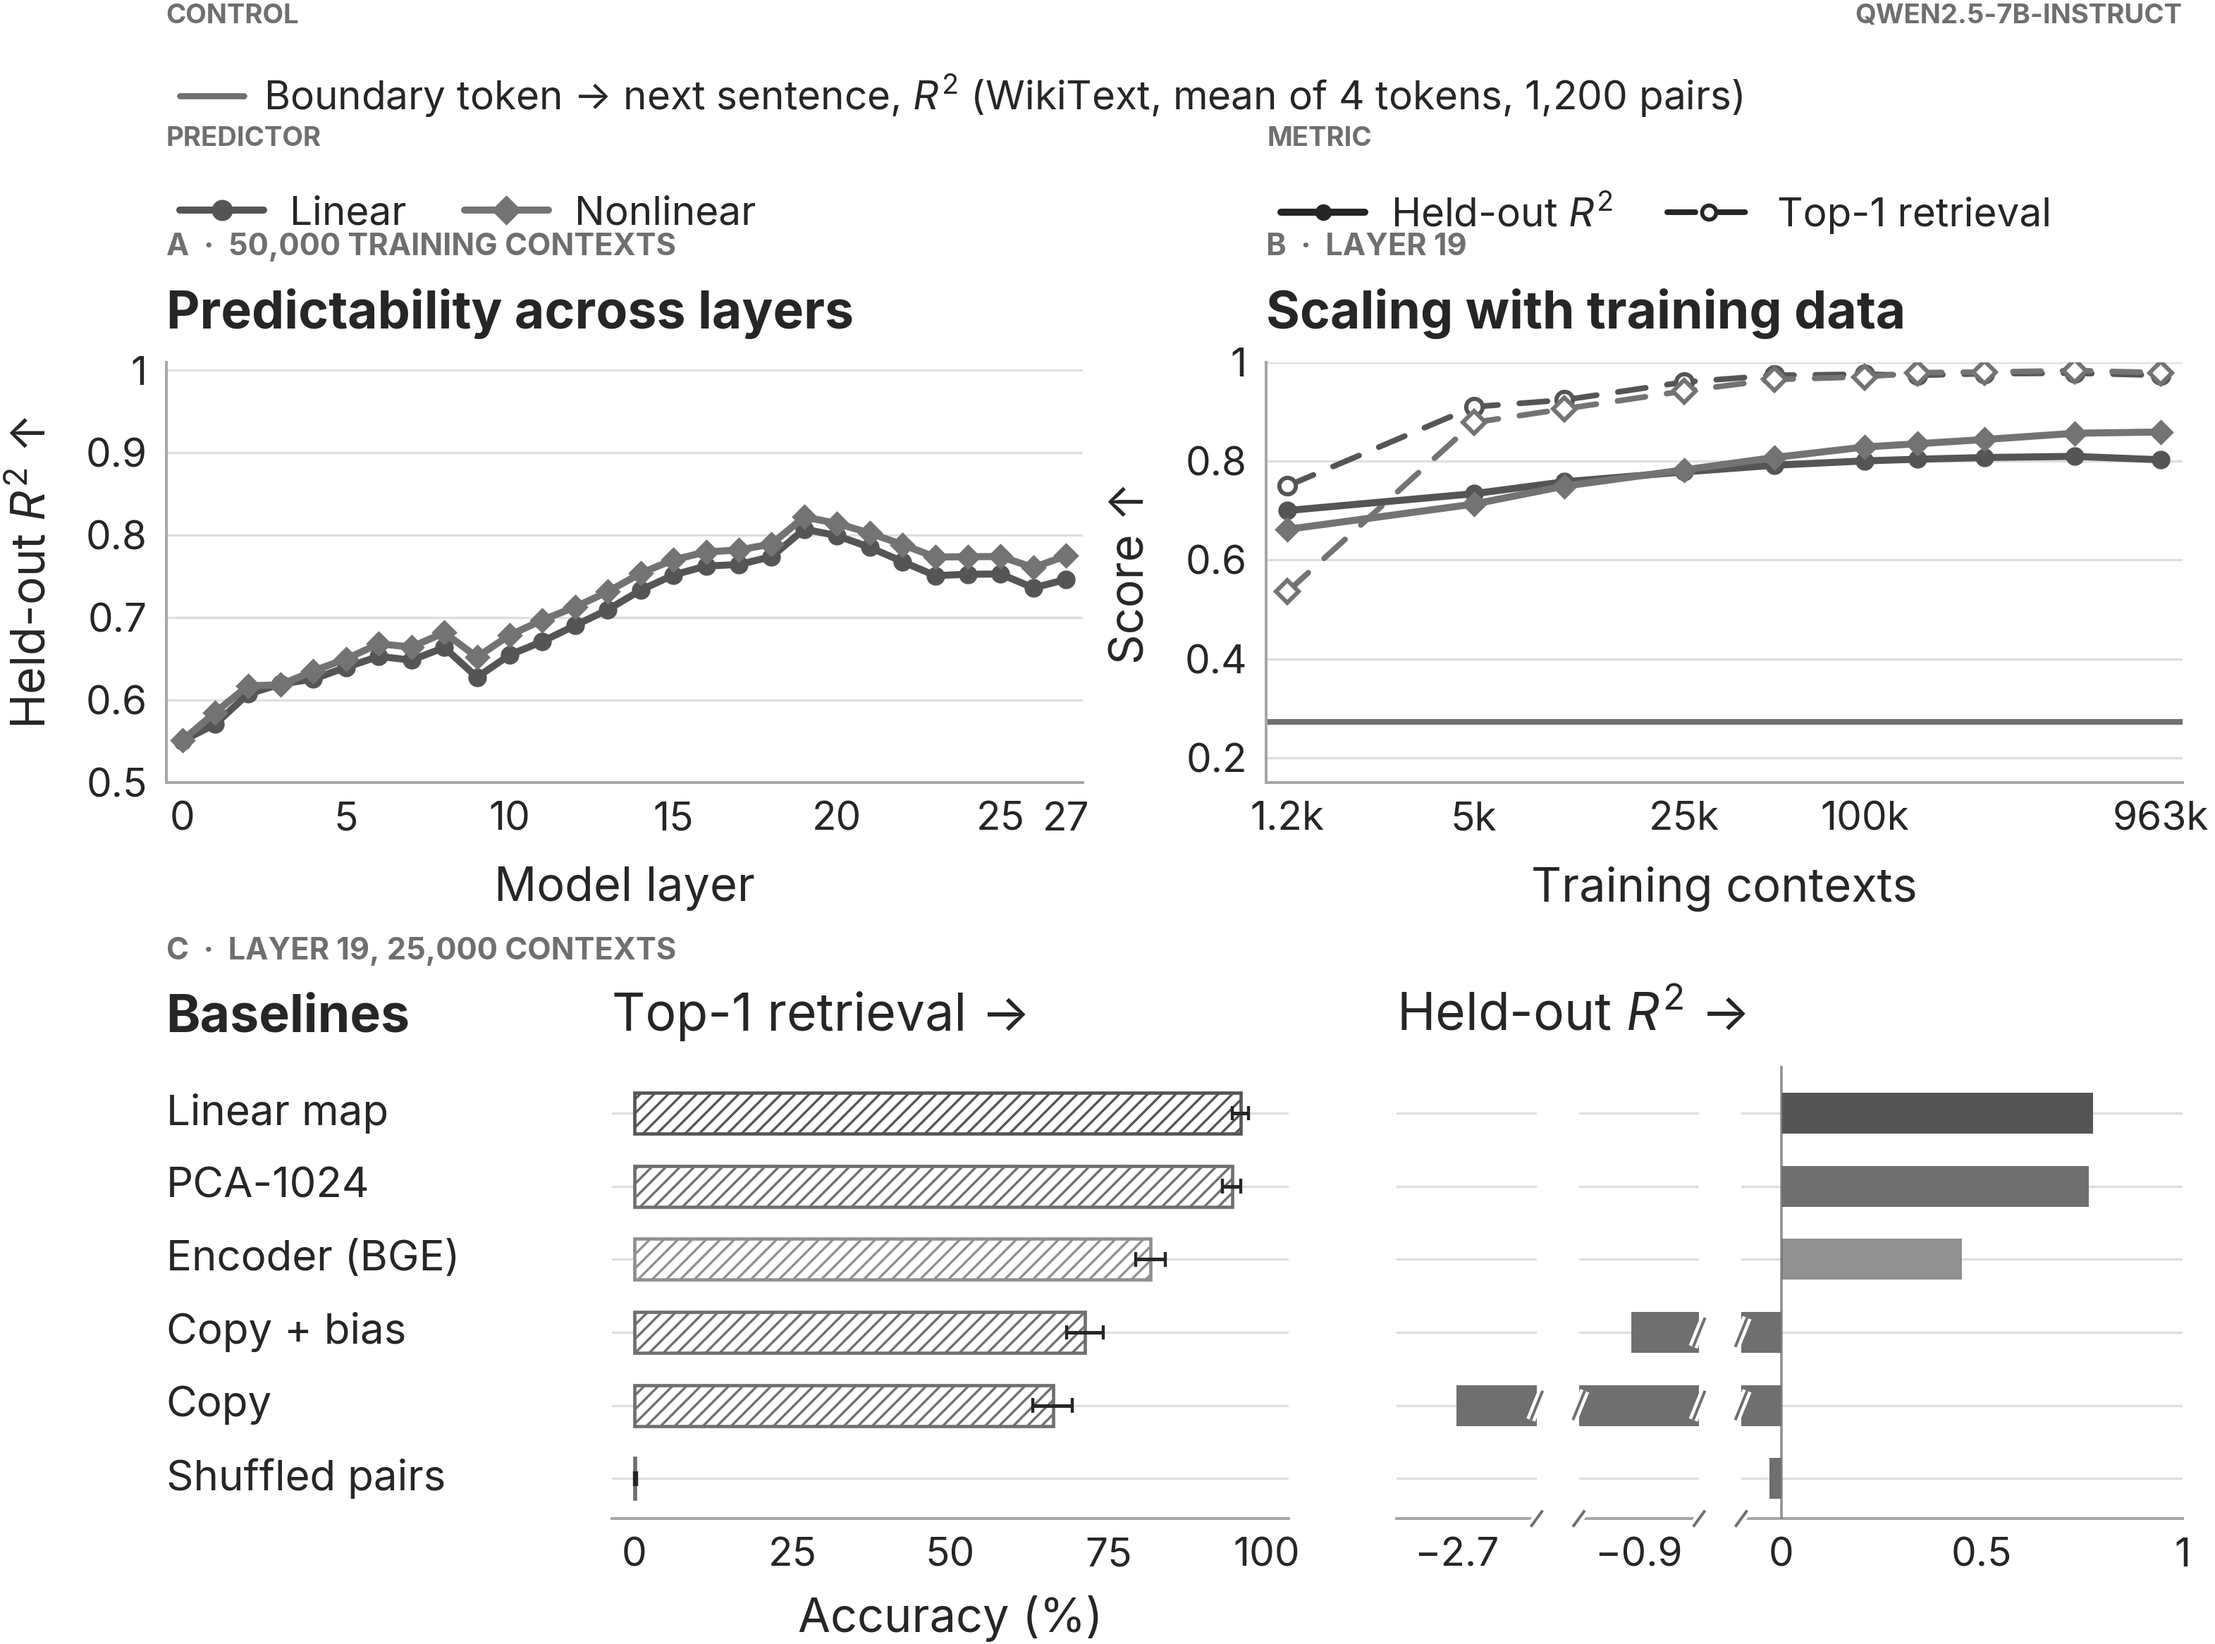
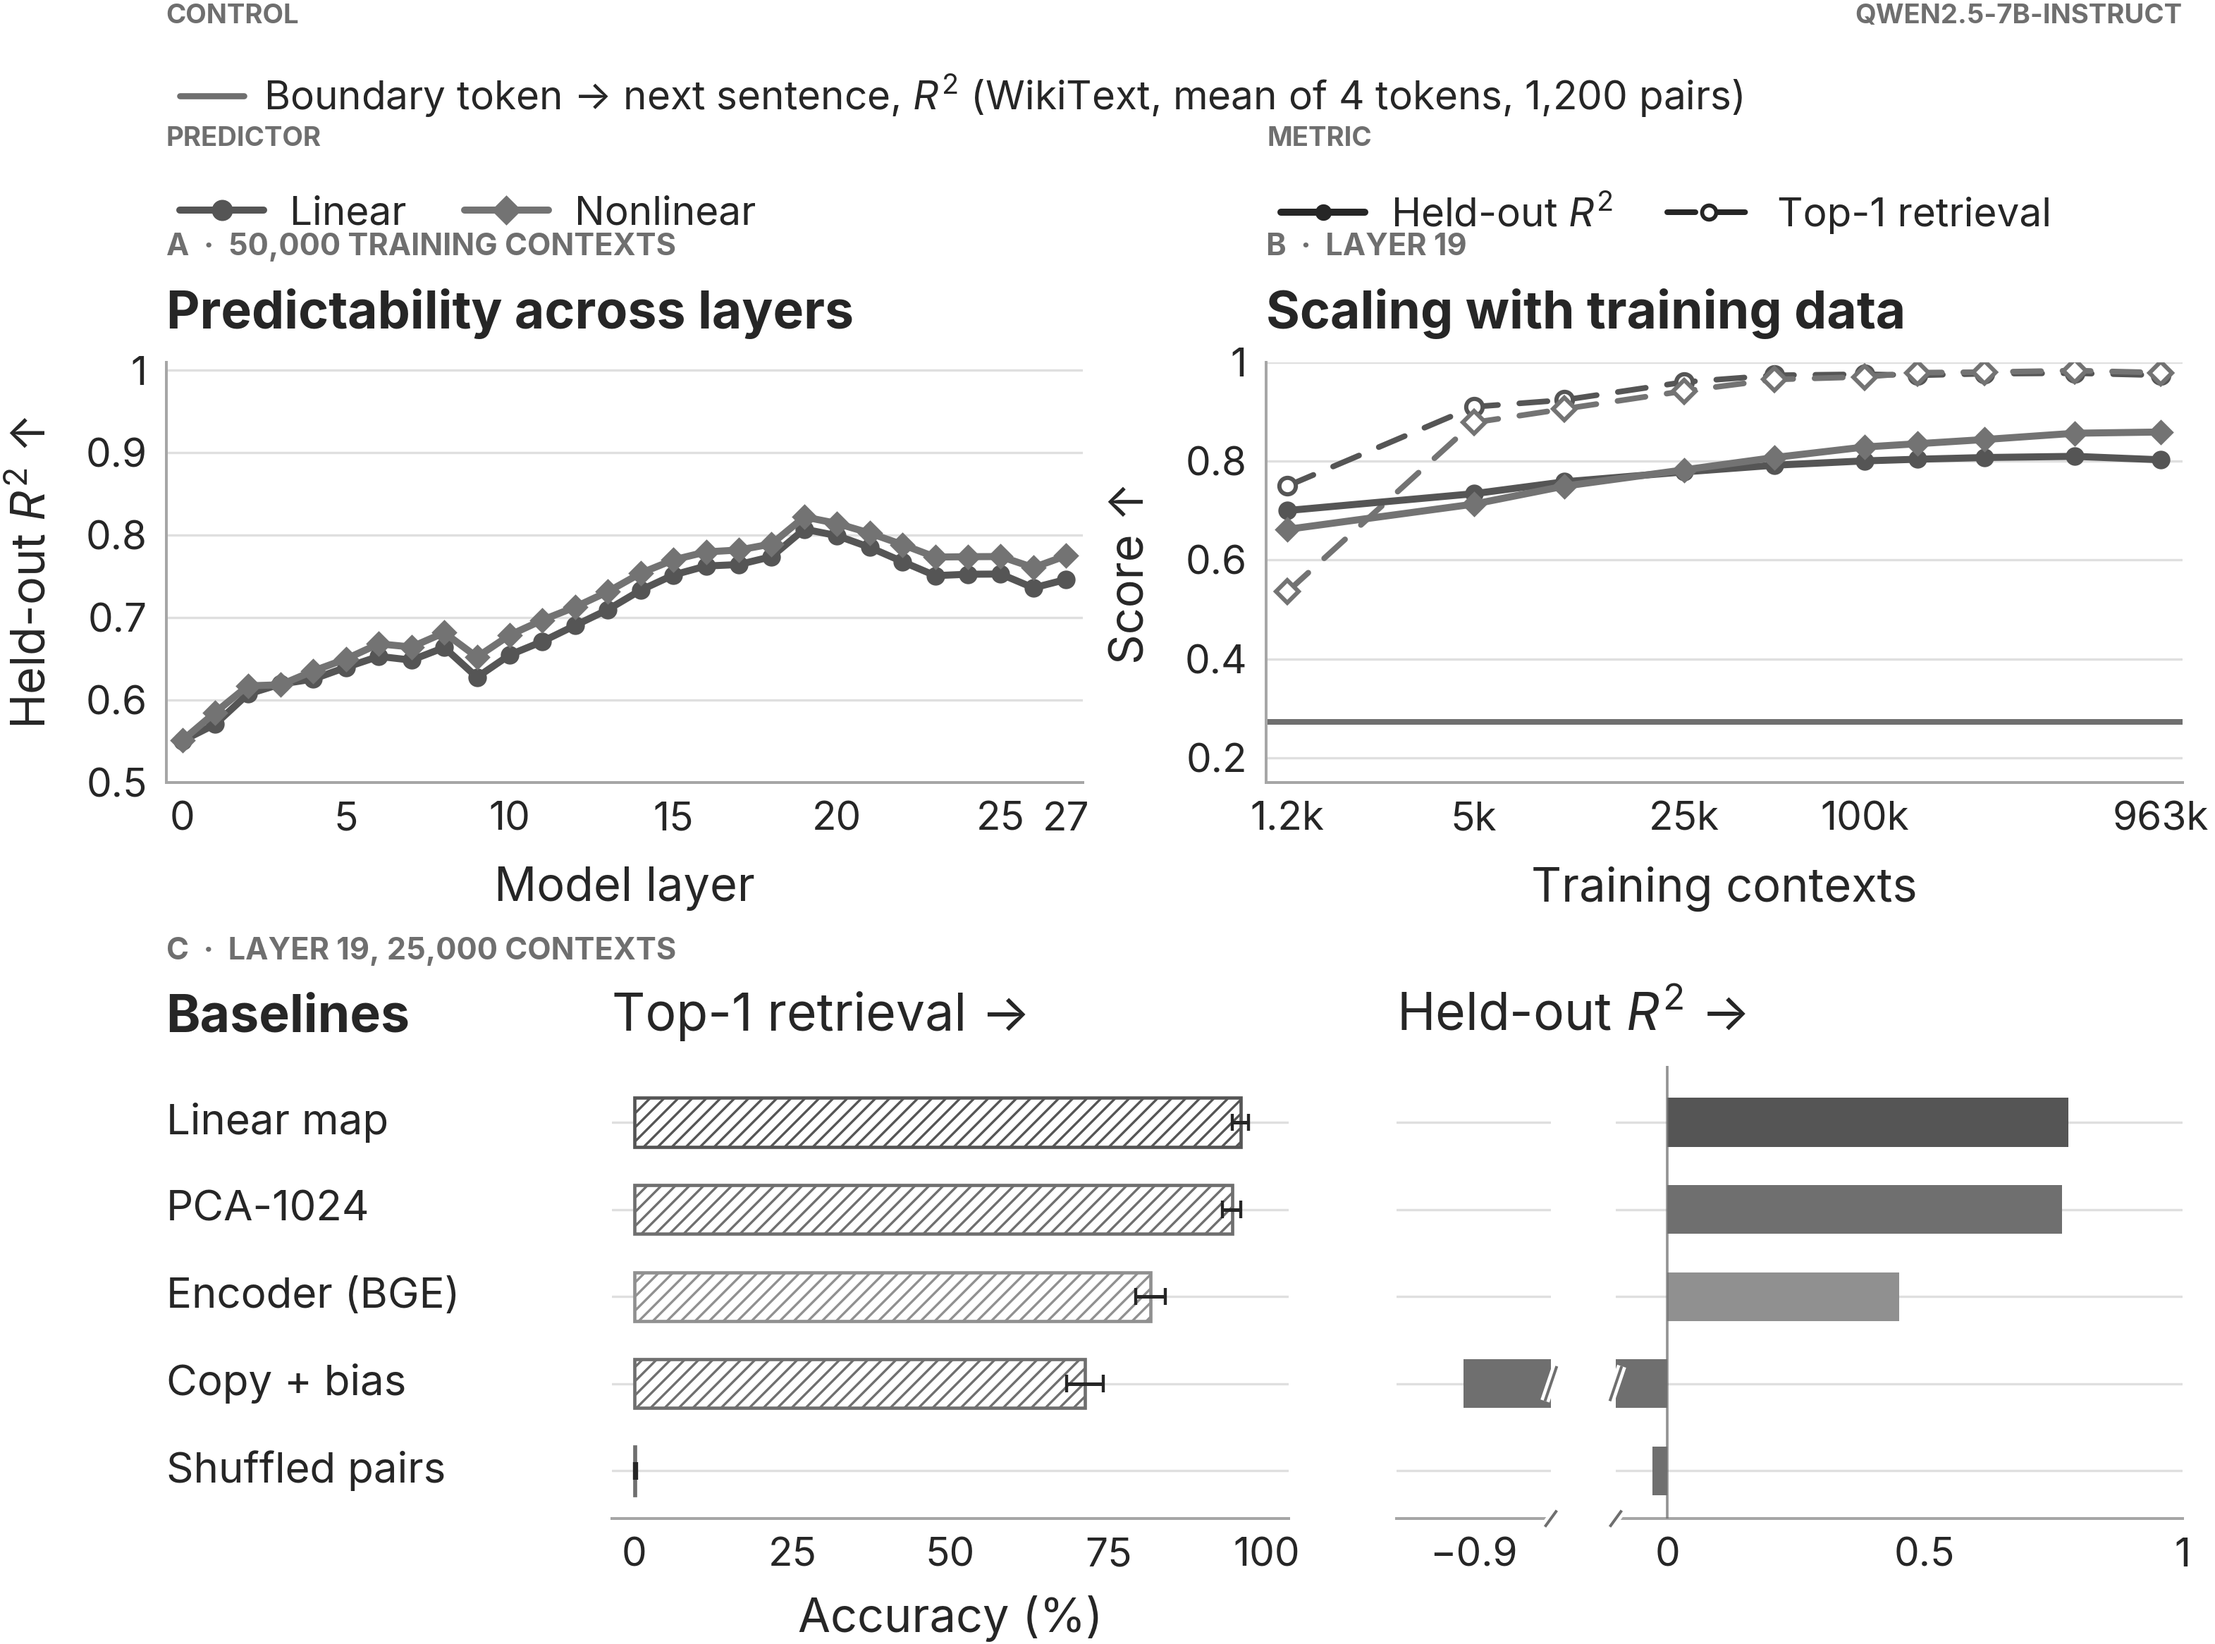
Remove Copy while retaining Copy plus bias in baselines

diff --git a/scripts/make_paper_figure2.py b/scripts/make_paper_figure2.py
@@ -145,13 +145,12 @@ BASELINE_ARMS: dict[str, dict] = {
     "enc_bge_cls": {"label": "Encoder (BGE)", "color": _ENCODER_COLOR},
     "pca1024": {"label": "PCA-1024", "color": ROLES["control"].color},
     "identity_bias": {"label": "Copy + bias", "color": ROLES["control"].color},
-    "identity_copy": {"label": "Copy", "color": ROLES["control"].color},
     "shuffled": {"label": "Shuffled pairs", "color": ROLES["control"].color},
 }
 
 # Retain every bar endpoint while omitting empty stretches of the negative axis.
 # Segment widths below are proportional to these spans: one common data scale.
-BASELINE_R2_SEGMENTS = ((-2.85, -2.5), (-1.05, -0.75), (-0.1, 1.0))
+BASELINE_R2_SEGMENTS = ((-1.05, -0.75), (-0.1, 1.0))
 
 
 def _load_baselines_data(path: Path, extension: dict) -> dict:
@@ -229,7 +228,7 @@ def _baseline_axis_cut(ax: plt.Axes, edge: float, row: float | None = None) -> N
 def _plot_baselines_panel(fig: plt.Figure, cell, baselines: dict) -> None:
     """Align horizontal retrieval and R^2 bars with shared baseline names.
 
-    Three equally scaled R^2 segments retain every endpoint. All bars start at
+    Two equally scaled R^2 segments retain every endpoint. All bars start at
     zero and are clipped only at explicit axis cuts. Retrieval intervals retain
     their actual endpoints even when they exclude the point estimate.
     """
@@ -237,7 +236,10 @@ def _plot_baselines_panel(fig: plt.Figure, cell, baselines: dict) -> None:
     ax_labels = fig.add_subplot(inner[0, 0], label="baseline-labels")
     ax_top = fig.add_subplot(inner[0, 1], sharey=ax_labels, label="baseline-top1")
     r2_grid = inner[0, 2].subgridspec(
-        1, 3, width_ratios=[hi - lo for lo, hi in BASELINE_R2_SEGMENTS], wspace=0.18
+        1,
+        len(BASELINE_R2_SEGMENTS),
+        width_ratios=[hi - lo for lo, hi in BASELINE_R2_SEGMENTS],
+        wspace=0.18,
     )
     r2_axes = [
         fig.add_subplot(r2_grid[0, j], sharey=ax_labels, label=f"baseline-r2-{j}")
@@ -270,7 +272,7 @@ def _plot_baselines_panel(fig: plt.Figure, cell, baselines: dict) -> None:
     ax_top.set_xlim(-0.035, 1.035)
     ax_top.set_xticks([0.0, 0.25, 0.5, 0.75, 1.0], ["0", "25", "50", "75", "100"])
     ax_top.set_xlabel("Accuracy (%)", labelpad=9)
-    r2_ticks = ([-2.7], [-0.9], [0.0, 0.5, 1.0])
+    r2_ticks = ([-0.9], [0.0, 0.5, 1.0])
     for j, (ax, limits, ticks) in enumerate(
         zip(r2_axes, BASELINE_R2_SEGMENTS, r2_ticks, strict=True)
     ):
@@ -747,7 +749,7 @@ def _write_outputs(
                         + (
                             ""
                             if baselines is None
-                            else " on panel B (panel C draws them at the 25k rung)"
+                            else " on panel B (panel C draws Copy + bias at the 25k rung)"
                         ),
                         **extension,
                     }
@@ -764,9 +766,9 @@ def _write_outputs(
                             "panel C spans the row below A and B; shared horizontal baseline "
                             "labels; hatched horizontal bars and 95% intervals = top-1 "
                             "retrieval, filled horizontal bars = held-out R^2; all bars "
-                            "start at zero; R^2 uses three equally scaled segments with "
+                            "start at zero; R^2 uses two equally scaled segments with "
                             "diagonal axis and bar cuts; every endpoint remains visible; "
-                            "copy baselines reused from the extension source"
+                            "Copy + bias reused from the extension source"
                         ),
                         "r2_axis_segments": BASELINE_R2_SEGMENTS,
                         "r2_axis_breaks": [

diff --git a/tests/test_make_paper_figure2_baselines.py b/tests/test_make_paper_figure2_baselines.py
@@ -37,9 +37,11 @@ def test_baseline_bars_align_and_axis_cuts_preserve_endpoints(tmp_path):
     try:
         axes = {ax.get_label(): ax for ax in fig.axes}
         labels, retrieval = [axes[k] for k in ("baseline-labels", "baseline-top1")]
-        r2_axes = [axes[f"baseline-r2-{j}"] for j in range(3)]
+        r2_axes = [axes[f"baseline-r2-{j}"] for j in range(len(plotter.BASELINE_R2_SEGMENTS))]
         fig.savefig(tmp_path / "baselines.pdf")
-        assert all(arm["key"] not in {"floor_e5", "enc_e5"} for arm in baselines["arms"])
+        keys = {arm["key"] for arm in baselines["arms"]}
+        assert not keys.intersection({"floor_e5", "enc_e5", "identity_copy"})
+        assert "identity_bias" in keys
         for i, arm in enumerate(baselines["arms"]):
             text = next(t for t in labels.texts if t.get_text() == arm["label"])
             row_y = text.get_transform().transform(text.get_position())[1]

diff --git a/docs/paper_context_answer_map/ai_use_log.md b/docs/paper_context_answer_map/ai_use_log.md
@@ -87,3 +87,4 @@ programmatically, never generated from model memory.
 | 2026-09-09 | Codex redesigned the baselines comparison into aligned horizontal retrieval and R² plots across the width below the layer and scaling panels. Added shared baseline labels, banked retrieval intervals, a focused R² scale with a zero line, and labeled arrows for off-scale copy scores. Updated the caption and plotting documentation. | Thomas approved the layout; his earlier removal of Encoder cosine remains in effect. All plotted source values and interval endpoints are preserved. Three focused rendering tests and independent Codex review passed. The color and grayscale exports and the compiled manuscript layout were inspected. [Overleaf](https://www.overleaf.com/project/6a59c927290f8b8b5eee0055). |
 | 2026-09-09 | Codex changed the baselines comparison to horizontal bars and replaced the off-scale annotations with two breaks in the R² axis and negative bars. Retained shared row labels, retrieval confidence intervals, and the statement-style caption. | Thomas requested bars and a cut axis. All three displayed R² segments use the same scale, every endpoint remains visible, and source values and interval endpoints are unchanged. Seven focused tests and independent Codex review passed. Color and grayscale exports and the compiled manuscript page were inspected, with references resolved. [Overleaf](https://www.overleaf.com/project/6a59c927290f8b8b5eee0055). |
 | 2026-09-09 | Codex removed Encoder (e5) from the baselines comparison and regenerated the color, grayscale, and vector exports. | Thomas requested the removal. Remaining rows, metric values, confidence intervals, axis cuts, and caption are unchanged. Seven existing rendering tests and lint checks passed. The grayscale audit and compiled manuscript page were inspected, with references resolved. [Overleaf](https://www.overleaf.com/project/6a59c927290f8b8b5eee0055). |
+| 2026-09-09 | Codex removed Copy from the baselines panel while retaining Copy + bias, and removed the unused far-left R² segment. Updated the caption and provenance descriptions for the single remaining axis break. | Thomas requested the removal. All remaining values and retrieval intervals are unchanged, and the two R² sections retain equal data scales. Seven existing rendering tests and lint checks passed. The grayscale audit and compiled manuscript page were inspected, with references resolved. [Overleaf](https://www.overleaf.com/project/6a59c927290f8b8b5eee0055). |

diff --git a/docs/paper_context_answer_map/plotting_style.md b/docs/paper_context_answer_map/plotting_style.md
@@ -136,13 +136,14 @@ spans a full-width row below A and B.
 Horizontal baseline names are shared by the retrieval and held-out R² columns.
 Retrieval uses hatched horizontal bars with the banked 95% interval endpoints,
 and R² uses filled horizontal bars with a visible zero line. The R² axis has
-three segments: [−2.85, −2.5], [−1.05, −0.75], and [−0.1, 1.0]. Their physical
+two segments: [−1.05, −0.75] and [−0.1, 1.0]. Their physical
 widths are proportional to their spans, preserving a common data scale. Diagonal
-cuts mark both omitted ranges on the axis and on bars crossing the cuts. All bars
+cuts mark the omitted range on the axis and on the bar crossing the cut. All bars
 start at zero and every endpoint remains visible. The renderer rejects scores
 falling in an omitted range. This display was requested on 2026-09-09; the
 provenance sidecar retains the full scores and records the visible and omitted ranges.
-Encoder cosine and Encoder (e5) are excluded from the displayed methods.
+Copy, Encoder cosine, and Encoder (e5) are excluded from the displayed methods.
+Copy + bias remains as the copy baseline.
 
 The panel reads `eval_results/issue_1901/fig2_baselines/fig2_baselines.json` and the
 copy baselines in `eval_results/issue_1901/figure2_extension_1200.json`. Its retrieval
